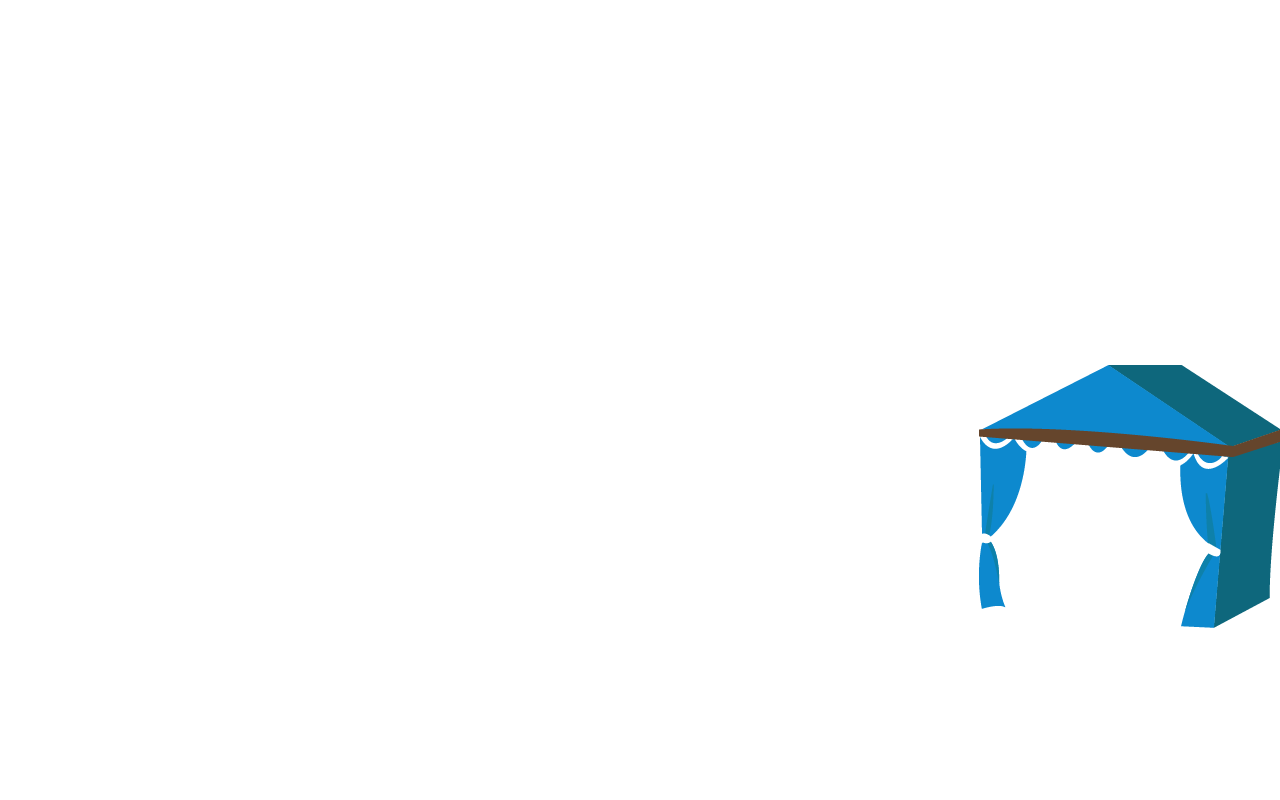
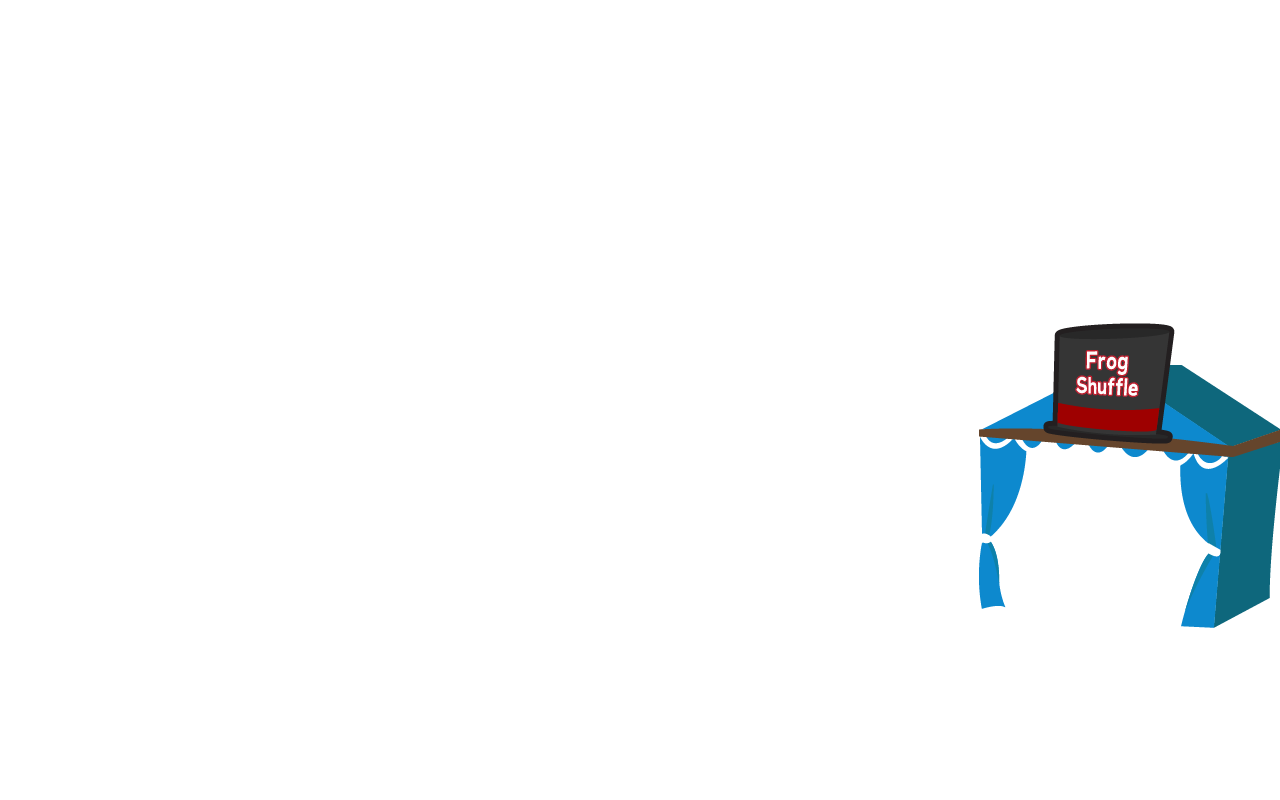
Implement Frog Shuffle tent/table + update yellow sunglasses look

Changed region(s): [[0.8125, 0.4062, 0.9375, 0.5625]]

diff --git a/client/js/game/scene/event/fallfaire22/minigame/FrogShuffle.js b/client/js/game/scene/event/fallfaire22/minigame/FrogShuffle.js
@@ -31,14 +31,16 @@ class FF22FrogShuffle extends Phaser.Scene {
 
             swapSpeedMin: 100,
             swapSpeedMax: 600,
+            swapSpeedMultiplier: 10,
 
             swapDelayMin: 100,
             swapDelayMax: 400,
+            swapDelayMultiplier: 20,
 
             depthHat: 100,
             depthFrog: 99,
 
-            payoutPerRound: 5
+            payoutPerRound: 5,
         };
     }
 
@@ -78,8 +80,6 @@ class FF22FrogShuffle extends Phaser.Scene {
         //end event data
         events.end(this);
 
-        delete this.frogOrder;
-
         //reset data
         delete this.audio_slide;
         delete this.audio_success;
@@ -89,7 +89,6 @@ class FF22FrogShuffle extends Phaser.Scene {
         delete this.startButton;
         delete this.shuffleRound;
         delete this.roundNumber;
-        delete this.score;
         delete this.targetDisplay;
         delete this.scoreDisplay;
         this.registry.destroy();
@@ -197,9 +196,6 @@ class FF22FrogShuffle extends Phaser.Scene {
         //get frog order
         let generatedFrogOrder = await client.FF22generateFrogOrder();
 
-        //DEBUG
-        this.frogOrder = generatedFrogOrder.frogOrder;
-
         //quit scene if failed
         if (generatedFrogOrder.status === false) this.quit();
 
@@ -208,21 +204,27 @@ class FF22FrogShuffle extends Phaser.Scene {
 
         //hats
         this.hats = [];
-        this.hats[0] = this.add.sprite(
-            this.gameData.leftPosition,
-            this.gameData.hatHeight,
-            'Hat_FrogShuffle'
-        ).setDepth(this.gameData.depthHat);
-        this.hats[1] = this.add.sprite(
-            this.gameData.middlePosition,
-            this.gameData.hatHeight,
-            'Hat_FrogShuffle'
-        ).setDepth(this.gameData.depthHat);
-        this.hats[2] = this.add.sprite(
-            this.gameData.rightPosition,
-            this.gameData.hatHeight,
-            'Hat_FrogShuffle'
-        ).setDepth(this.gameData.depthHat);
+        this.hats[0] = this.add
+            .sprite(
+                this.gameData.leftPosition,
+                this.gameData.hatHeight,
+                'Hat_FrogShuffle'
+            )
+            .setDepth(this.gameData.depthHat);
+        this.hats[1] = this.add
+            .sprite(
+                this.gameData.middlePosition,
+                this.gameData.hatHeight,
+                'Hat_FrogShuffle'
+            )
+            .setDepth(this.gameData.depthHat);
+        this.hats[2] = this.add
+            .sprite(
+                this.gameData.rightPosition,
+                this.gameData.hatHeight,
+                'Hat_FrogShuffle'
+            )
+            .setDepth(this.gameData.depthHat);
 
         //let hats have an outline on hover (when set as interactive)
         this.hats.forEach((hat) => {
@@ -254,28 +256,33 @@ class FF22FrogShuffle extends Phaser.Scene {
 
         //init variables
         this.roundNumber = 0;
-        this.score = 0;
     }
 
     //place frogs in correct order
     placeFrogs(frogOrder) {
         this.frogs = [];
-        this.frogs[0] = this.add.sprite(
-            this.gameData.leftPosition,
-            this.gameData.frogHeight,
-            frogOrder[0] + '_FrogShuffle'
-        ).setDepth(this.gameData.depthFrog);
-        this.frogs[1] = this.add.sprite(
-            this.gameData.middlePosition,
-            this.gameData.frogHeight,
-            frogOrder[1] + '_FrogShuffle'
-        ).setDepth(this.gameData.depthFrog);
-        this.frogs[2] = this.add.sprite(
-            this.gameData.rightPosition,
-            this.gameData.frogHeight,
-            frogOrder[2] + '_FrogShuffle'
-        ).setDepth(this.gameData.depthFrog);
-    };
+        this.frogs[0] = this.add
+            .sprite(
+                this.gameData.leftPosition,
+                this.gameData.frogHeight,
+                frogOrder[0] + '_FrogShuffle'
+            )
+            .setDepth(this.gameData.depthFrog);
+        this.frogs[1] = this.add
+            .sprite(
+                this.gameData.middlePosition,
+                this.gameData.frogHeight,
+                frogOrder[1] + '_FrogShuffle'
+            )
+            .setDepth(this.gameData.depthFrog);
+        this.frogs[2] = this.add
+            .sprite(
+                this.gameData.rightPosition,
+                this.gameData.frogHeight,
+                frogOrder[2] + '_FrogShuffle'
+            )
+            .setDepth(this.gameData.depthFrog);
+    }
 
     //add game info before starting game
     initGame() {
@@ -287,9 +294,9 @@ class FF22FrogShuffle extends Phaser.Scene {
                     content: [
                         {
                             type: 'text',
-                            text: 'Score: ' + this.score,
+                            text: 'Score: 0',
                             fontSize: 32,
-                        }
+                        },
                     ],
                 },
                 {
@@ -337,6 +344,12 @@ class FF22FrogShuffle extends Phaser.Scene {
         //quit scene if failed
         if (this.shuffleRound.status === false) this.quit();
 
+        //determine swap speed
+        let swapSpeed = this.gameData.swapSpeedMax - (this.gameData.swapSpeedMultiplier * this.roundNumber) < this.gameData.swapSpeedMin ? this.gameData.swapSpeedMin : this.gameData.swapSpeedMax - (this.gameData.swapSpeedMultiplier * this.roundNumber);
+
+        //determine swap delay
+        let swapDelay = this.gameData.swapDelayMax - (this.gameData.swapDelayMultiplier * this.roundNumber) < this.gameData.swapDelayMin ? this.gameData.swapDelayMin : this.gameData.swapDelayMax - (this.gameData.swapDelayMultiplier * this.roundNumber);
+
         //start shuffling
         let queueTime = 0;
         this.shuffleRound.sequence.forEach((sequence, index) => {
@@ -344,7 +357,7 @@ class FF22FrogShuffle extends Phaser.Scene {
             if (index > 0)
                 queueTime =
                     queueTime +
-                    (this.gameData.swapSpeedMax + this.gameData.swapDelayMax);
+                    (swapSpeed + swapDelay);
 
             //queue each swap with a delay that gets bigger with each iteration so that it accounts for the time required for the previous swap in the queue
             setTimeout(
@@ -353,13 +366,13 @@ class FF22FrogShuffle extends Phaser.Scene {
                     this.tweens.add({
                         targets: this.hats[sequence[0] - 1],
                         x: this.hats[sequence[1] - 1].x,
-                        duration: this.gameData.swapSpeedMax,
+                        duration: swapSpeed,
                         ease: 'Cubic.easeIn',
                     });
                     this.tweens.add({
                         targets: this.hats[sequence[1] - 1],
                         x: this.hats[sequence[0] - 1].x,
-                        duration: this.gameData.swapSpeedMax,
+                        duration: swapSpeed,
                         ease: 'Cubic.easeIn',
                     });
 
@@ -367,12 +380,6 @@ class FF22FrogShuffle extends Phaser.Scene {
                     [this.hats[sequence[0] - 1], this.hats[sequence[1] - 1]] = [
                         this.hats[sequence[1] - 1],
                         this.hats[sequence[0] - 1],
-                    ];
-
-                    //DEBUG
-                    [this.frogOrder[sequence[0] - 1], this.frogOrder[sequence[1] - 1]] = [
-                        this.frogOrder[sequence[1] - 1],
-                        this.frogOrder[sequence[0] - 1],
                     ];
 
                     //play sound
@@ -384,9 +391,6 @@ class FF22FrogShuffle extends Phaser.Scene {
             );
         });
 
-        //DEBUG
-        console.log('Servers Final Frog Order: ' + this.shuffleRound.FINALFROGORDER + ' Client Frog Order: ' + this.frogOrder);
-
         //wait for swapping to finish
         await utility.wait(queueTime + 1000);
 
@@ -394,9 +398,11 @@ class FF22FrogShuffle extends Phaser.Scene {
         this.hats.forEach((hat, index) => {
             hat.setInteractive();
 
-            //give click listener if this is the first round
-            if (this.roundNumber === 1)
-                hat.on('pointerdown', this.hatSelected.bind(this, index));
+            //remove old listener
+            hat.removeListener('pointerdown');
+
+            //give click listener
+            hat.on('pointerdown', this.hatSelected.bind(this, index));
         });
 
         //ask player to choose a hat matching the target
@@ -418,8 +424,8 @@ class FF22FrogShuffle extends Phaser.Scene {
                                     0,
                                     this.shuffleRound.target + '_FrogShuffle_UI'
                                 );
-                            }
-                        }
+                            },
+                        },
                     ],
                 },
                 {
@@ -443,16 +449,14 @@ class FF22FrogShuffle extends Phaser.Scene {
         let hatPick = await client.FF22requestHatPick(index);
 
         //game is broken lole
-        if (hatPick.status === undefined || hatPick.status === null) this.quit();
+        if (hatPick.status === undefined || hatPick.status === null)
+            this.quit();
 
         //remove target display
         this.targetDisplay.destroy();
 
         //place frogs
         this.placeFrogs(hatPick.frogOrder);
-
-        //DEBUG
-        this.frogOrder = hatPick.frogOrder;
 
         //raise hats
         this.hats.forEach((hat) => {
@@ -469,12 +473,13 @@ class FF22FrogShuffle extends Phaser.Scene {
 
         //if success
         if (hatPick.status) {
-            //update score
-            this.score = this.score + this.gameData.payoutPerRound;
-
             //update score display
-            this.scoreDisplay.getElement('items')[0].setText('Score: ' + this.score);
-            
+            this.scoreDisplay
+                .getElement('items')[0]
+                .setText(
+                    'Score: ' + this.gameData.payoutPerRound * this.roundNumber
+                );
+
             //success sound
             this.audio_success.play();
 
@@ -494,12 +499,11 @@ class FF22FrogShuffle extends Phaser.Scene {
             globalUI.showDialog(
                 this,
                 'You Picked The Wrong Hat!',
-                'You won ' +
-                    hatPick['prizeAmount'] +
-                    ' tickets.',
+                'You won ' + hatPick['prizeAmount'] + ' tickets.',
                 'Play Again?',
                 async () => {
                     //restart game
+                    this.end();
                     this.scene.start('FF22FrogShuffle');
                 }
             );

diff --git a/client/config/GameConfig.js b/client/config/GameConfig.js
@@ -121,37 +121,18 @@ class GameConfig {
                         'event/ff22/room/forest/layers/Frog_Shuffle_Tent_Background.png'
                     )
                     .in(game);
+                event.texture
+                    .add(
+                        'Frog_Shuffle_Table',
+                        'event/ff22/room/forest/objects/Frog_Shuffle_Table.png'
+                    )
+                    .in(game);
 
                 //audio
                 event.audio
                     .add(
                         'frog_caves_fair',
                         'event/ff22/audio/music/frog_caves_fair.mp3'
-                    )
-                    .in(game);
-            } else if (globalData.currentEvents.includes('FF22Dev')) {
-                event.texture
-                    .add(
-                        'Daily_Spin_Tent',
-                        'event/ff22/room/forest/layers/Daily_Spin_Tent_Dev.png'
-                    )
-                    .in(game);
-                event.texture
-                    .add(
-                        'Daily_Spin_Tent_Background',
-                        'event/ff22/room/forest/layers/Daily_Spin_Tent_Background_Dev.png'
-                    )
-                    .in(game);
-                event.texture
-                    .add(
-                        'Frog_Shuffle_Tent',
-                        'event/ff22/room/forest/layers/Frog_Shuffle_Tent.png'
-                    )
-                    .in(game);
-                event.texture
-                    .add(
-                        'Frog_Shuffle_Tent_Background',
-                        'event/ff22/room/forest/layers/Frog_Shuffle_Tent_Background.png'
                     )
                     .in(game);
             }
@@ -206,15 +187,13 @@ class GameConfig {
             event.layer.add('Theatre_Sign', 600).in(game);
             event.layer.add('Forest_Tree_3', 610).in(game);
             if (
-                !globalData.currentEvents.includes('FF22') &&
-                !globalData.currentEvents.includes('FF22Dev')
+                !globalData.currentEvents.includes('FF22')
             )
                 event.layer.add('Forest_Tree_2', 628).in(game);
             event.layer.add('Forest_Rock_1', 629).in(game);
             // event.layer.add('Forest_Stump_1', 649).in(game);
             if (
-                !globalData.currentEvents.includes('FF22') &&
-                !globalData.currentEvents.includes('FF22Dev')
+                !globalData.currentEvents.includes('FF22')
             )
                 event.layer.add('Forest_Tree_1', 665).in(game);
             event.layer.add('Forest_Foreground', 'foreground').in(game);
@@ -305,12 +284,16 @@ class GameConfig {
                         game.scene.start('FF22EmoteMatch');
                     })
                     .in(game);
-            } else if (globalData.currentEvents.includes('FF22Dev')) {
-                //layers
-                event.layer.add('Daily_Spin_Tent_Background', 560).in(game);
-                event.layer.add('Daily_Spin_Tent', 610).in(game);
-                event.layer.add('Frog_Shuffle_Tent_Background', 555).in(game);
-                event.layer.add('Frog_Shuffle_Tent', 605).in(game);
+                event.object.interactable
+                    .name('Frog_Shuffle_Table')
+                    .location(1111, 567.6)
+                    .depth(590)
+                    .onInteraction(() => {
+                        //start frog shuffle scene
+                        game.end();
+                        game.scene.start('FF22FrogShuffle');
+                    })
+                    .in(game);
             }
             if (globalData.currentEvents.includes('Birthday_Party')) {
                 //layers
